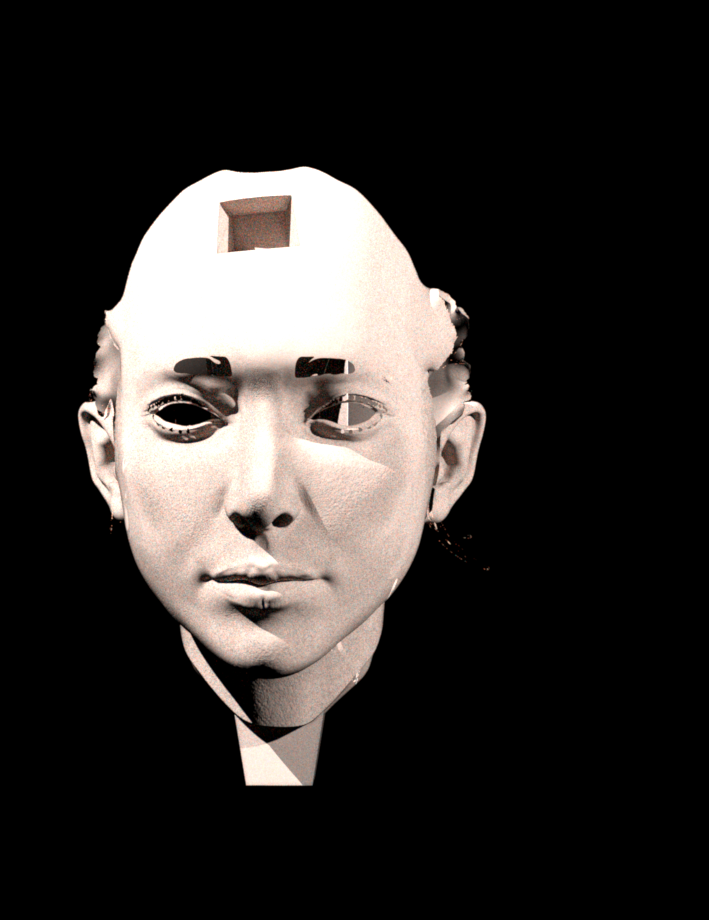
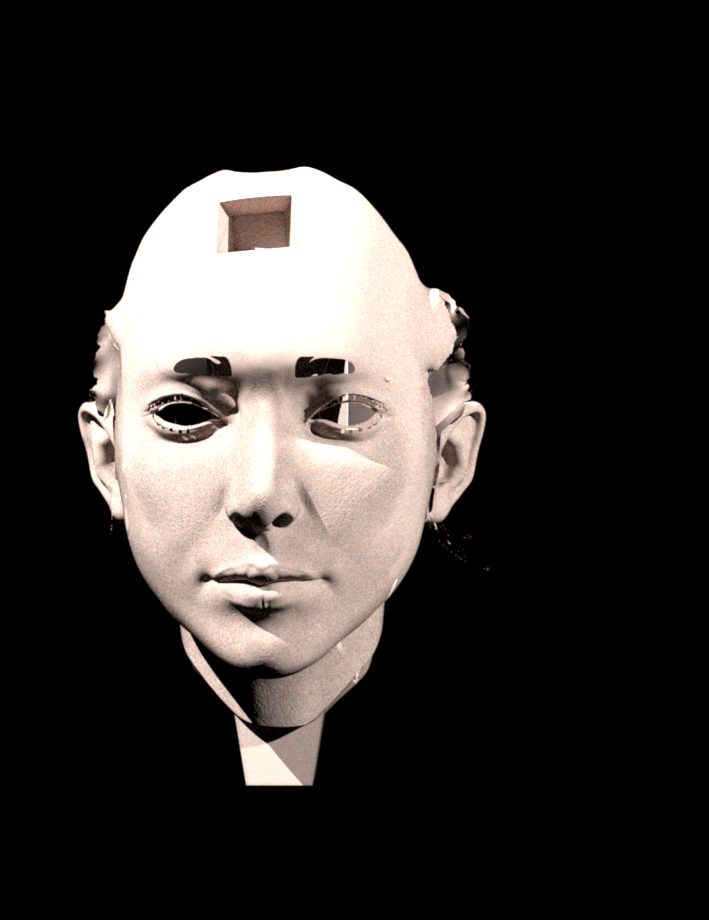
Fixed obj morton reordering, works properly

Changed region(s): [[0.3413, 0.213, 0.4034, 0.2739], [0.2793, 0.5174, 0.3413, 0.5783]]

diff --git a/src/obj.cpp b/src/obj.cpp
@@ -29,7 +29,42 @@ NORI_NAMESPACE_BEGIN
  */
 class WavefrontOBJ : public Mesh 
 {
-        
+    protected:
+
+     /// Vertex indices used by the OBJ format
+    struct OBJVertex {
+        uint32_t p = (uint32_t) -1;
+        uint32_t n = (uint32_t) -1;
+        uint32_t uv = (uint32_t) -1;
+
+        inline OBJVertex() { }
+
+        inline OBJVertex(const std::string &string) {
+            std::vector<std::string> tokens = tokenize(string, "/", true);
+
+            if (tokens.size() < 1 || tokens.size() > 3)
+                throw NoriException("Invalid vertex data: \"%s\"", string);
+
+            p = toUInt(tokens[0]);
+
+            if (tokens.size() >= 2 && !tokens[1].empty())
+                uv = toUInt(tokens[1]);
+
+            if (tokens.size() >= 3 && !tokens[2].empty())
+                n = toUInt(tokens[2]);
+        }
+
+        inline bool operator==(const OBJVertex &v) const {
+            return v.p == p && v.n == n && v.uv == uv;
+        }
+    };
+
+    struct Face {
+        OBJVertex v[6];
+        int nVertices;
+    };
+
+
     uint64_t float_to_morton(float value, int max_bits = 10) 
     {
         uint64_t morton_code = 0;
@@ -44,57 +79,68 @@ class WavefrontOBJ : public Mesh
 
 
     // Function to compute the Morton code for a 3D point in [0, 1]
-    uint64_t morton3D(Point3f p, int bits = 10) {
+    uint64_t morton3D(Point3f p, int bits = 10) 
+    {
         uint64_t x_morton = float_to_morton(p.x(), bits);
         uint64_t y_morton = float_to_morton(p.y(), bits);
         uint64_t z_morton = float_to_morton(p.z(), bits);  
 
         uint64_t morton_code = 0;
         for (int i = 0; i < bits; ++i) {
-            morton_code |= ((x_morton >> i) & 1) << (3 * i);
-            morton_code |= ((y_morton >> i) & 1) << (3 * i + 1);
-            morton_code |= ((z_morton >> i) & 1) << (3 * i + 2);
+            morton_code |= ((x_morton >> (3 * i)) & 1) << (3 * i);
+            morton_code |= ((y_morton >> (3 * i)) & 1) << (3 * i + 1);
+            morton_code |= ((z_morton >> (3 * i)) & 1) << (3 * i + 2);
         }
 
         return morton_code;
     }
 
-    void order_faces_by_morton()
+    void order_faces_by_morton(
+            std::vector<Face> &loaded_faces,
+            const std::vector<Vector3f> &positions)
     {
-        std::vector<uint64_t> morton_codes(m_F.cols());
-        for (uint32_t i = 0; i < m_F.cols(); ++i)
+        Vector3f bbox_size = m_bbox.max - m_bbox.min;
+        for (int i = 0; i < 3; ++i)
         {
-            uint32_t x = m_F(0, i);
-            uint32_t y = m_F(1, i);
-            uint32_t z = m_F(2, i);
-            Point3f centroid = (m_V.col(x) + m_V.col(y) + m_V.col(z)) / 3.0f;
-            
-            Vector3f bbox_size = m_bbox.max - m_bbox.min;
-            Point3f normalized_centroid = (centroid - m_bbox.min);
-            
-            normalized_centroid.x() /= bbox_size.x();
-            normalized_centroid.y() /= bbox_size.y();
-            normalized_centroid.z() /= bbox_size.z();
+            if (bbox_size[i] == 0)
+                bbox_size[i] = 1.0f;
+        }
 
+        std::vector<uint64_t> morton_codes(loaded_faces.size());
+        for (uint32_t i = 0; i < loaded_faces.size(); ++i)
+        {
+            uint32_t index1 = loaded_faces[i].v[0].p;
+            uint32_t index2 = loaded_faces[i].v[1].p;
+            uint32_t index3 = loaded_faces[i].v[2].p;
+
+            Vector3f p0 = positions[index1-1];
+            Vector3f p1 = positions[index2-1];
+            Vector3f p2 = positions[index3-1];
+
+            Vector3f centroid = (p0 + p1 + p2) / 3.0f;
+            Vector3f normalized_centroid = (centroid - m_bbox.min);
+            
+            normalized_centroid = normalized_centroid.cwiseQuotient(bbox_size);
             morton_codes[i] = morton3D(normalized_centroid);
         }
 
-        std::vector<uint32_t> indices(m_F.cols());
-        for (uint32_t i = 0; i < m_F.cols(); ++i)
+        std::vector<uint32_t> indices(loaded_faces.size());
+        for (uint32_t i = 0; i < loaded_faces.size(); ++i)
             indices[i] = i;
 
         std::sort(indices.begin(), indices.end(), [&morton_codes](uint32_t a, uint32_t b) {
             return morton_codes[a] < morton_codes[b];
         });
 
-        MatrixXu F(3, m_F.cols());
-        for (uint32_t i = 0; i < m_F.cols(); ++i)
-            F.col(i) = m_F.col(indices[i]);
+        std::vector<Face> F(loaded_faces.size());
+        for (uint32_t i = 0; i < loaded_faces.size(); ++i)
+            F[i] = loaded_faces[indices[i]];
 
-        m_F = F;
+        loaded_faces.swap(F);
     }
 
 public:
+
     WavefrontOBJ(const PropertyList &propList) {
         typedef std::unordered_map<OBJVertex, uint32_t, OBJVertexHash> VertexMap;
 
@@ -116,6 +162,8 @@ public:
         std::vector<uint32_t>   indices;
         std::vector<OBJVertex>  vertices;
         VertexMap vertexMap;
+
+        std::vector<Face> loaded_faces;
 
         std::string line_str;
         while (std::getline(is, line_str)) {
@@ -155,21 +203,35 @@ public:
                     verts[5] = verts[2];
                     nVertices = 6;
                 }
-                /* Convert to an indexed vertex list */
-                for (int i=0; i<nVertices; ++i) {
-                    const OBJVertex &v = verts[i];
-                    VertexMap::const_iterator it = vertexMap.find(v);
-                    if (it == vertexMap.end()) {
-                        vertexMap[v] = (uint32_t) vertices.size();
-                        indices.push_back((uint32_t) vertices.size());
-                        vertices.push_back(v);
-                    } else {
-                        indices.push_back(it->second);
-                    }
-                }
+
+                Face face;
+                face.nVertices = nVertices;
+                for (int i=0; i<nVertices; ++i)
+                    face.v[i] = verts[i];
+
+                loaded_faces.push_back(face);
             }
         }
         cout << "End reading \"" << filename << "\" .. ";
+
+        order_faces_by_morton(loaded_faces, positions);
+
+        for (const Face &face : loaded_faces) 
+        {
+            /* Convert to an indexed vertex list */
+            for (int i=0; i < face.nVertices; ++i) 
+            {
+                const OBJVertex &v = face.v[i];
+                VertexMap::const_iterator it = vertexMap.find(v);
+                if (it == vertexMap.end()) {
+                    vertexMap[v] = (uint32_t) vertices.size();
+                    indices.push_back((uint32_t) vertices.size());
+                    vertices.push_back(v);
+                } else {
+                    indices.push_back(it->second);
+                }
+            }
+        }
 
 
         m_F.resize(3, indices.size()/3);
@@ -199,8 +261,6 @@ public:
 
         cout << "Passed with UVs \"" << filename << "\" .. ";
 
-        //order_faces_by_morton();
-
         m_name = filename.str();
         cout << "done. (V=" << m_V.cols() << ", F=" << m_F.cols() << ", took "
              << timer.elapsedString() << " and "
@@ -210,33 +270,6 @@ public:
     }
 
 protected:
-    /// Vertex indices used by the OBJ format
-    struct OBJVertex {
-        uint32_t p = (uint32_t) -1;
-        uint32_t n = (uint32_t) -1;
-        uint32_t uv = (uint32_t) -1;
-
-        inline OBJVertex() { }
-
-        inline OBJVertex(const std::string &string) {
-            std::vector<std::string> tokens = tokenize(string, "/", true);
-
-            if (tokens.size() < 1 || tokens.size() > 3)
-                throw NoriException("Invalid vertex data: \"%s\"", string);
-
-            p = toUInt(tokens[0]);
-
-            if (tokens.size() >= 2 && !tokens[1].empty())
-                uv = toUInt(tokens[1]);
-
-            if (tokens.size() >= 3 && !tokens[2].empty())
-                n = toUInt(tokens[2]);
-        }
-
-        inline bool operator==(const OBJVertex &v) const {
-            return v.p == p && v.n == n && v.uv == uv;
-        }
-    };
 
     /// Hash function for OBJVertex
     struct OBJVertexHash : std::unary_function<OBJVertex, size_t> {

diff --git a/sortObj.py b/sortObj.py
@@ -42,6 +42,7 @@ def float_to_morton(value, max_bits=10):
     """Convert a float in the range [0, 1] to a Morton code part."""
     morton_code = 0
     value_scaled = int(value * ((1 << max_bits) - 1))  # Scale to the number of bits
+    
     for i in range(max_bits):
         morton_code |= ((value_scaled >> i) & 1) << (3 * i)  # 3D interleaving for Morton code
     return morton_code
@@ -49,8 +50,12 @@ def float_to_morton(value, max_bits=10):
 def calculate_morton_code(centroid, bbox_min, bbox_max, max_bits=10):
     """Convert the centroid position to a Morton code."""
     # Normalize the centroid to [0, 1] range
-    normalized_centroid = (centroid - bbox_min) / (bbox_max - bbox_min)
+    bbox_d = (bbox_max - bbox_min)
     
+    # Put 1 on any 0
+    bbox_d[bbox_d == 0] = 1 
+    normalized_centroid = (centroid - bbox_min) / bbox_d 
+
     # Convert each coordinate to Morton code part
     x_morton = float_to_morton(normalized_centroid[0], max_bits)
     y_morton = float_to_morton(normalized_centroid[1], max_bits)
@@ -63,6 +68,8 @@ def calculate_morton_code(centroid, bbox_min, bbox_max, max_bits=10):
         morton_code |= ((y_morton >> (3 * i)) & 1) << (3 * i + 1)
         morton_code |= ((z_morton >> (3 * i)) & 1) << (3 * i + 2)
     
+    #print(f"Centroid: {normalized_centroid}, Morton code: {x_morton}, {y_morton}, {z_morton}, total: {morton_code}")
+
     return morton_code
 
 def reorder_faces_by_morton_code(vertices, faces, max_bits=10):
@@ -80,6 +87,8 @@ def reorder_faces_by_morton_code(vertices, faces, max_bits=10):
     
     # Sort faces by the Morton code
     morton_codes_and_faces.sort(key=lambda x: x[0])
+
+    #print([morton_code for morton_code, _ in morton_codes_and_faces])
     
     # Return the reordered faces
     return [face for _, face in morton_codes_and_faces]
